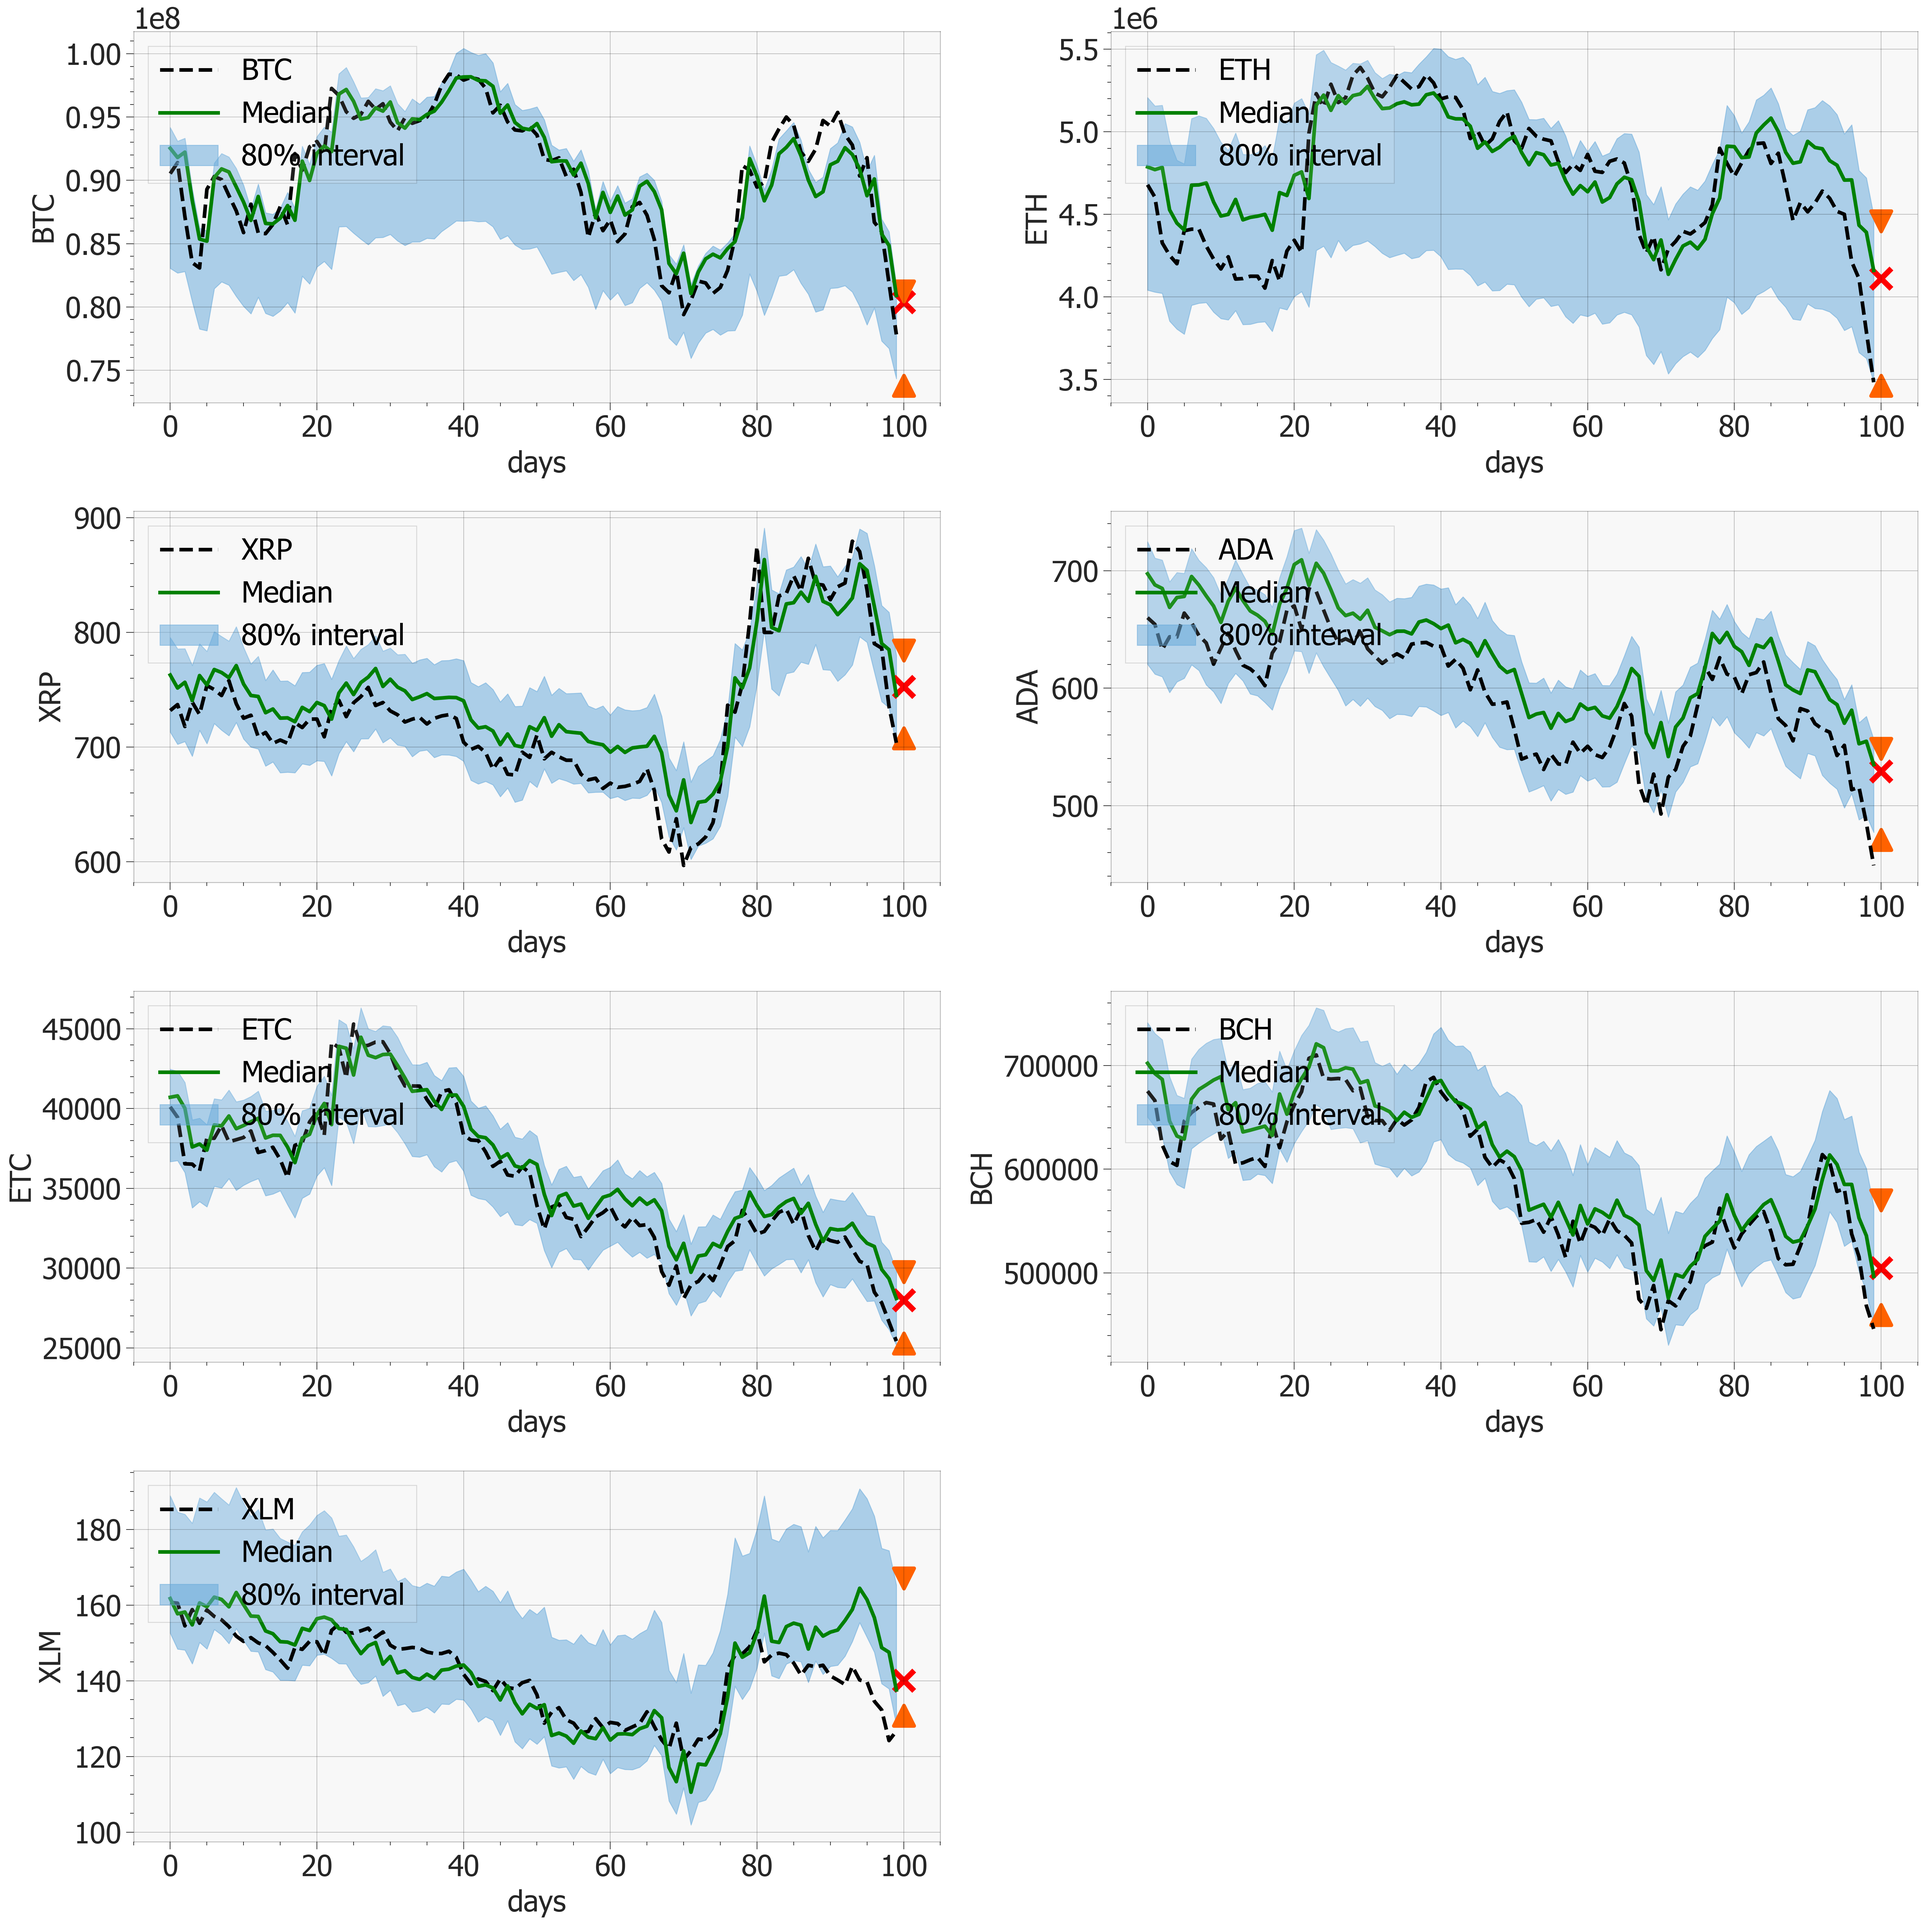
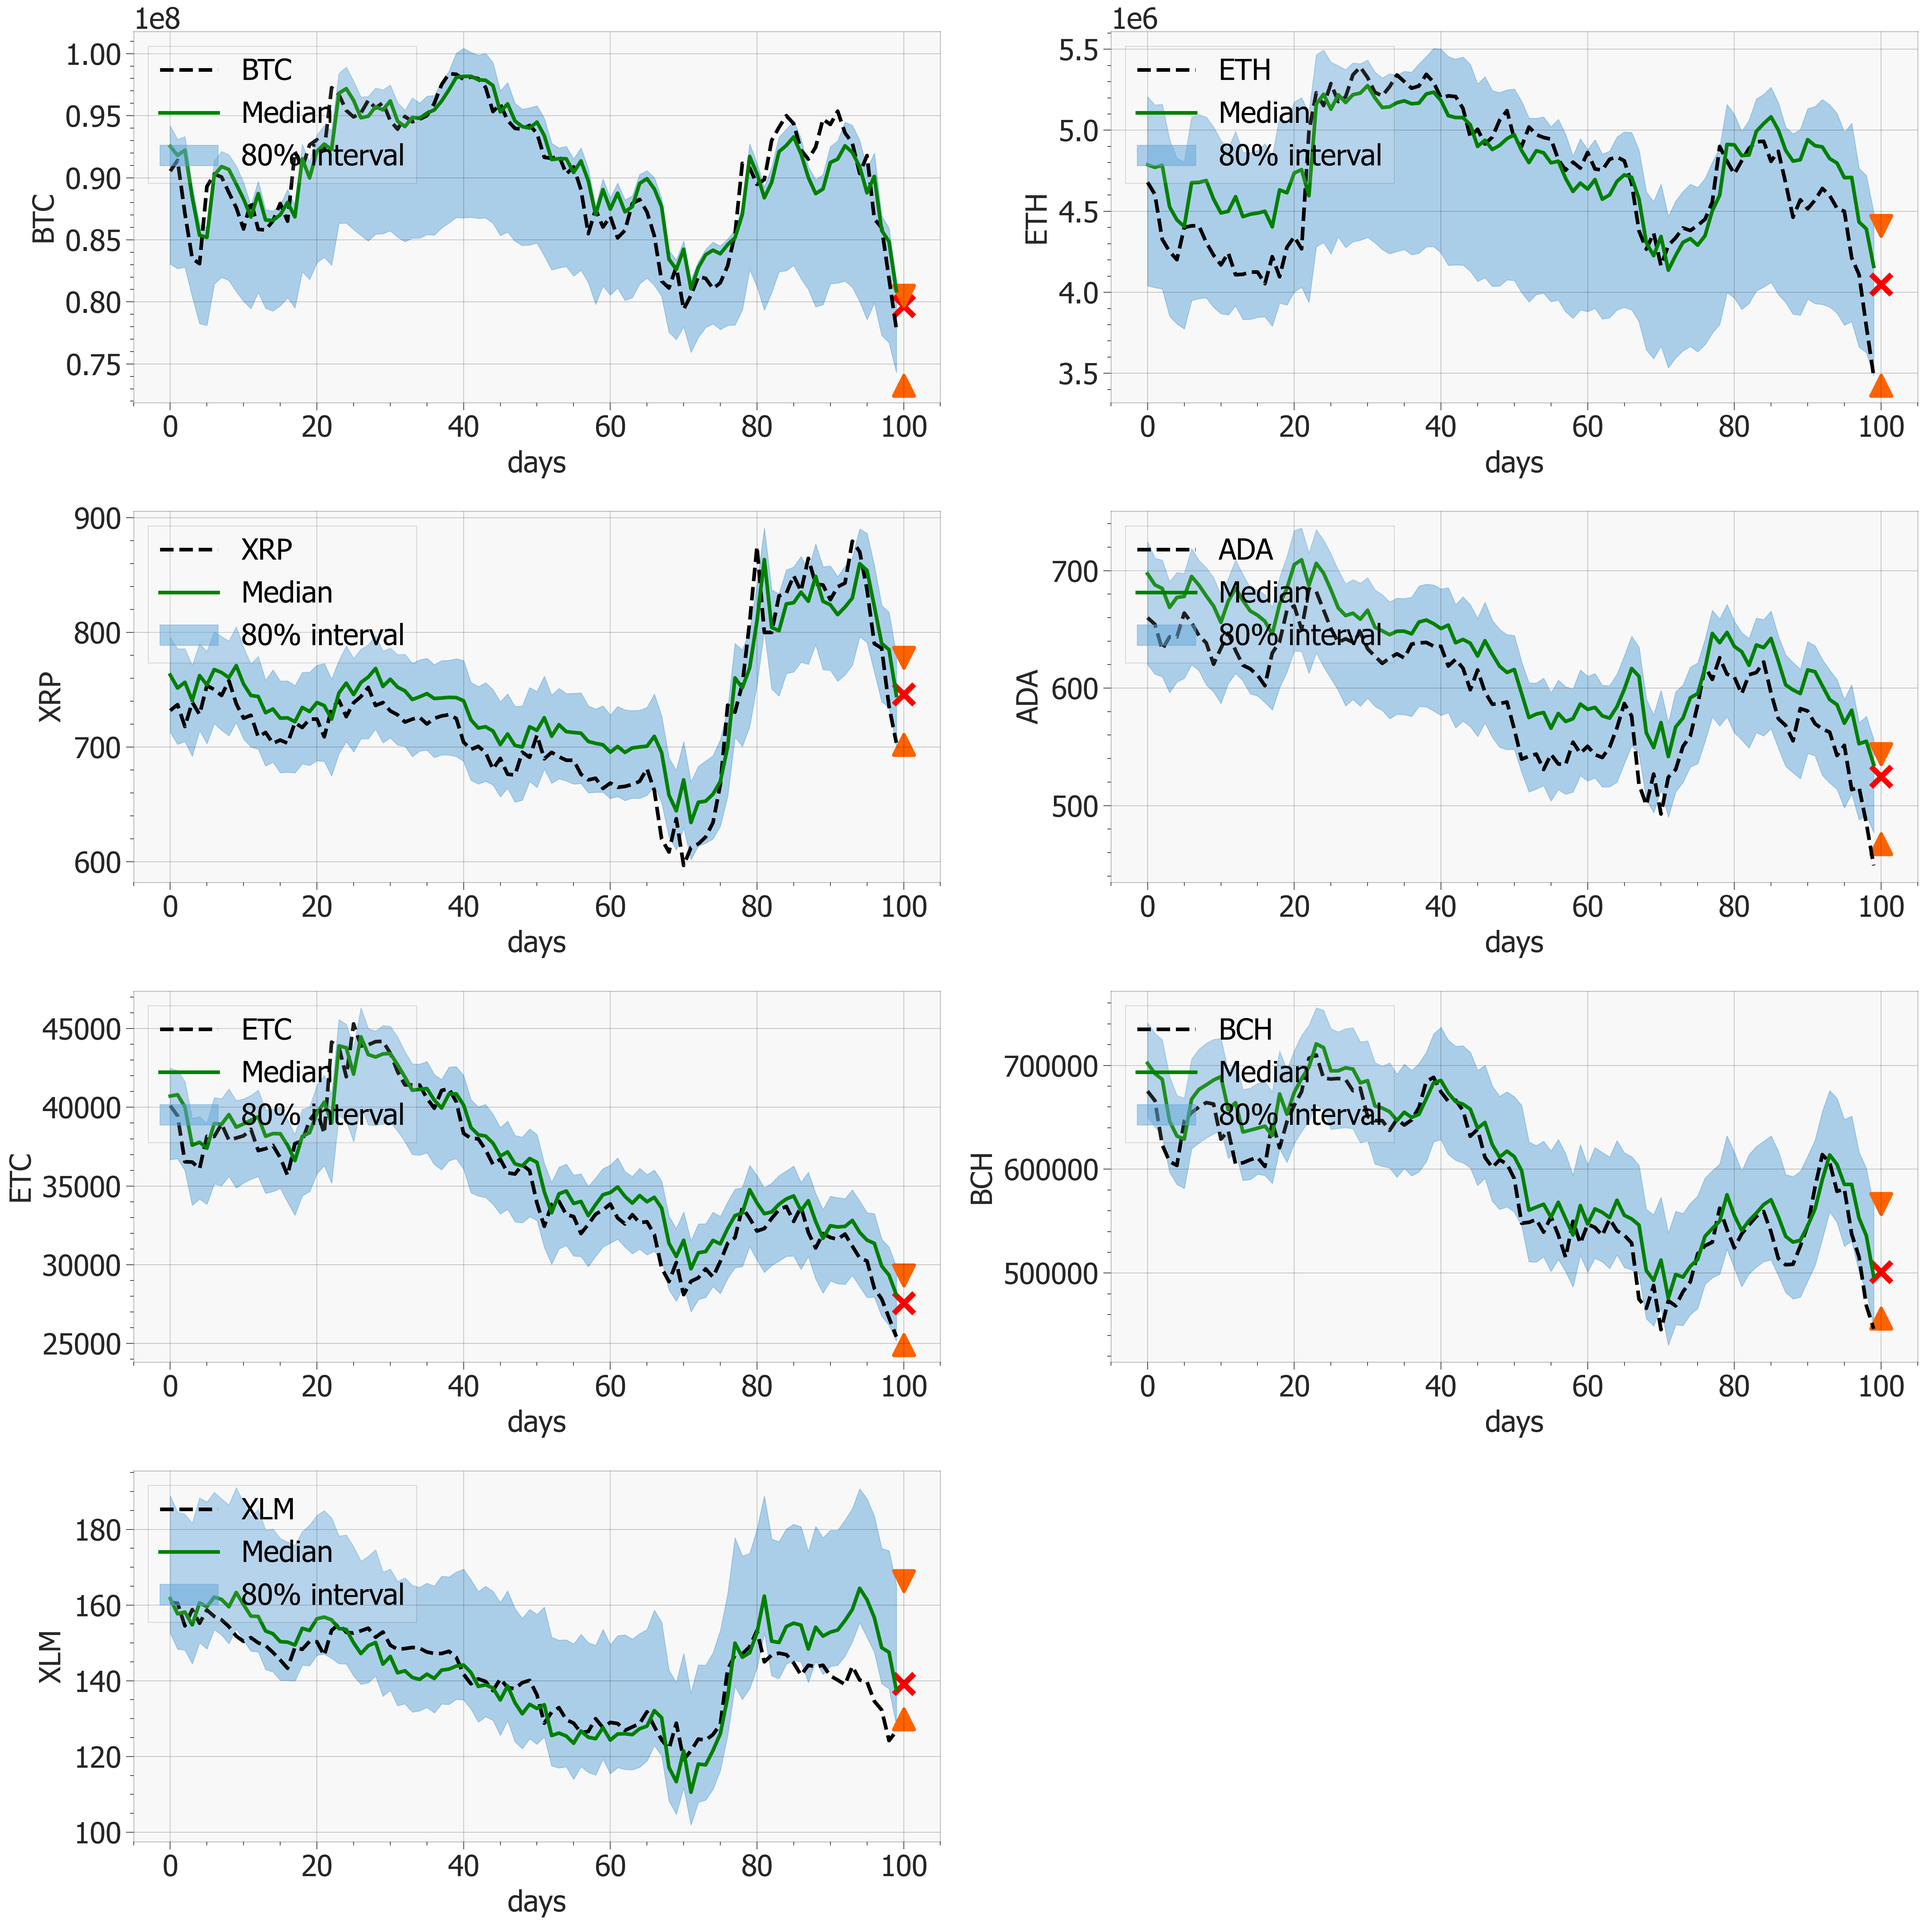
Automated update on 2024-08-06

diff --git a/streamlit.py b/streamlit.py
@@ -140,7 +140,7 @@ def main():
             label=f"KRW-{cryptos[j]}", color="black", linewidth=6, linestyle='--')
         ax.flatten()[j].set_ylabel(f"{cryptos[j]}")
         # ax.flatten()[j].set_xlabel("days")
-        ax.flatten()[j].legend(loc="lower right")
+        ax.flatten()[j].legend(loc="lower left")
         ax.flatten()[j].tick_params(axis='x', rotation=45)
     ax[-1, -1].axis('off')
     plt.tight_layout()
